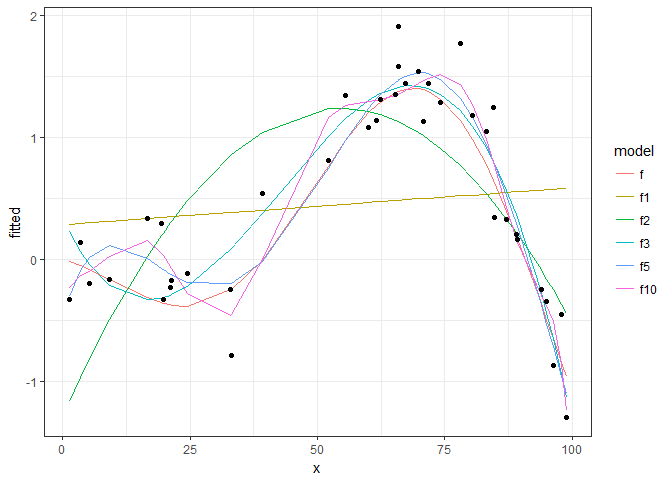
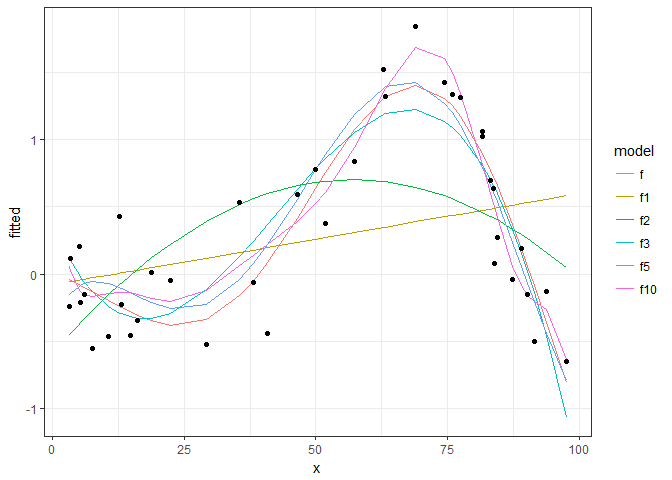
incluindo caso da curva 3 finalizando texto

diff --git a/Chapter01 - Intro/Assessing_Model_Accuracy.md b/Chapter01 - Intro/Assessing_Model_Accuracy.md
@@ -8,7 +8,7 @@ output:
 
 ## Introduction
 
-This article talks about the use of **Mean Squared Error (MSE)** against the flexibility of a function fited as a technique to assess the model accuracy in a specific problem as describe in the [An Introduction to Statistical Learning in R](https://www.amazon.com/Introduction-Statistical-Learning-Applications-Statistics/dp/1461471370) book.
+This article talks about the use of **Mean Squared Error (MSE)** against the flexibility of a function fitted as a technique to assess the model accuracy in a specific problem as describe in the [An Introduction to Statistical Learning in R](https://www.amazon.com/Introduction-Statistical-Learning-Applications-Statistics/dp/1461471370) book.
 
 ## Measure the quality of fit (regression problems)
 
@@ -20,13 +20,13 @@ $$ MSE = \frac{1}{N}\sum_{i=1}^{n}(y_i-\hat{f}(x_i))^2 $$
 
 Where $\hat{f}(x_i)$ is the predicted (or fitted) function at x~i~ and y~i~ is the real value.
 
-So, the MSE is computed using the training data that was used to fit the model, and so should more accurately be referred to as the training MSE, but we want to evaluate the performance of the  $\hat{f}()$ against the unkwon data points, so we also compute MSE in an _test set_ with data points different from used to fit the $\hat{f}()$, now we have a MSE~tr~ for training points and a MSE~ts for test set.
+So, the MSE is computed using the training data that was used to fit the model, and so should more accurately be referred to as the training MSE, but we want to evaluate the performance of the  $\hat{f}()$ against the unknown data points, so we also compute MSE in an _test set_ with data points different from used to fit the $\hat{f}()$, now we have a MSE~tr~ for training points and a MSE~ts for test set.
 
 We want to choose the method that gives the lowest test MSE, as opposed to the lowest training MSE (MSE~ts~).
 
 ## Comparing MSE~tr~ and MSE~ts~
 
-Let's simulate some situations to see how MSE~tr~ and MSE~ts against diferent fitting techniques, we'll use polinomials fit to simplify the cenarios.
+Let's simulate some situations to see how MSE~tr~ and MSE~ts against different fitting techniques, we'll use polynomials fit to simplify the scenarios.
 
 ### Curve 1
 
@@ -70,7 +70,7 @@ ggplot(dt_tr, aes(x=x)) +
 
 ![](Assessing_Model_Accuracy_files/figure-html/caseOne-1.png)<!-- -->
 
-Let's fit some cases in these datasets, we will use an linear regration, and some polinomial data.
+Let's fit some cases in these data sets, we will use an linear regression, and some polynomial data.
 
 
 
@@ -100,7 +100,7 @@ ggplot(dt_tr_long) +
 
 ![](Assessing_Model_Accuracy_files/figure-html/fitCaseOne-1.png)<!-- -->
 
-We see in this chart, the real data points (points), the real function (continuous black line) and diferent fitting curves (colored lines) from 1 degree to 50 degree. Now let's see the performances of these models, calculating and ploting MSE on training and testing sets.
+We see in this chart, the real data points (points), the real function (continuous black line) and different fitting curves (colored lines) from 1 degree to 50 degree. Now let's see the performances of these models, calculating and plotting MSE on training and testing sets.
 
 
 ```r
@@ -133,11 +133,11 @@ ggplot(perf,aes(x=degree)) +
 
 ![](Assessing_Model_Accuracy_files/figure-html/perfCaseOne-1.png)<!-- -->
 
-We can see the behavior of MSE data, in the training data (Red) the incresing of the flexibility of the fit (degree in this case) will cause a continuos decreasing in the MSE value, but in the MSE of the test data we have a initial decreasing until some minimal value (de optimal fit) and then a increasing, showing that model overfitting the training set.
+We can see the behavior of MSE data, in the training data (Red) the increasing of the flexibility of the fit (degree in this case) will cause a continuous decreasing in the MSE value, but in the MSE of the test data we have a initial decreasing until some minimal value (the optimal fit) and then a increasing, showing that model overfitting the training set.
 
 
 
-### Courve 2
+### Curve 2
 
 Another example.
 
@@ -216,3 +216,85 @@ ggplot(perf,aes(x=degree)) +
 
 ![](Assessing_Model_Accuracy_files/figure-html/perfCaseTwo-1.png)<!-- -->
 
+# Curve 3
+
+
+```r
+DOMAIN <- runif(100, 1, 100)
+
+# function linear gausian noise sd=1
+f <- function(x) -30*sin( x*(2*pi/length(DOMAIN)) ) - .01*x^2 + 15   #  (sin( (2*pi/length(DOMAIN)) * (x+10) )) * 2*x/100 + 0.001 * x
+noise <- function(x) 5*rnorm(x)
+
+data_frame(
+  x = DOMAIN,
+  f = f(x)
+) %>%
+  # adding noise
+  mutate(
+    y = f + noise(DOMAIN)
+  ) -> dt
+
+# separing in training and testing
+idx.tr <- sample(DOMAIN,round(length(DOMAIN)/2))
+dt_tr <- dt[idx.tr,]
+dt_ts <- dt[-idx.tr,]
+
+#  visualizing training data
+ggplot(dt_tr, aes(x=x)) +
+  geom_point(aes(y=y)) +
+  geom_line(aes(y=f), linetype="dotted") +
+  theme_bw()
+```
+
+![](Assessing_Model_Accuracy_files/figure-html/caseThree-1.png)<!-- -->
+
+
+```r
+degrees <- c(1,2,3,5,10)
+
+models <- map(degrees, fitPoly, data=dt_tr)
+
+models %>%
+  map(function(model){model$fitted.values}) %>%
+  set_names(paste0("f",degrees)) %>%
+  as_data_frame() %>%
+  cbind(dt_tr, .) -> dt_tr_fit
+
+dt_tr_long <- dt_tr_fit %>%
+  melt(id.vars="x", variable.name="model", value.name = "fitted")
+
+ggplot(dt_tr_long) +
+  geom_line(data=dt_tr_long[dt_tr_long$model!="y",], aes(x=x, y=fitted, colour=model)) +
+  geom_point(data=dt_tr_long[dt_tr_long$model=="y",], aes(x=x,y=fitted)) +
+  theme_bw()
+```
+
+![](Assessing_Model_Accuracy_files/figure-html/fittCaseThree-1.png)<!-- -->
+
+
+```r
+# performances
+perf <- data_frame(
+  degree = degrees,
+  MSE.tr = unlist(map(models, getMSE)),
+  MSE.ts = unlist(map(models, calcMSE, dt_ts))
+)
+
+MSE <- sum( (dt$y-dt$f)^2 ) / nrow(dt)
+
+ggplot(perf,aes(x=degree)) +
+  geom_line(aes(y=MSE.tr), colour="red") +
+  geom_line(aes(y=MSE.ts), colour="blue") +
+  geom_hline(yintercept = MSE, linetype="dashed") +
+  ylab("MSE") +
+  theme_bw()
+```
+
+![](Assessing_Model_Accuracy_files/figure-html/perfCaseThree-1.png)<!-- -->
+
+# Conclusion
+
+As we see, plotting the **cost function** (MSE in these cases) of fitted models against Training and Test data is helpful to check the sanity of your model to avoid the overfitting effect.
+
+In these examples we study how the MSE vs Model Flexibility (degrees in the polynomial fitting) but we can study the cost function vs number of features, number of samples and others aspects of you problem domain, this is a know technique to check for overfitting in machine learning projects.
